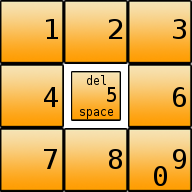
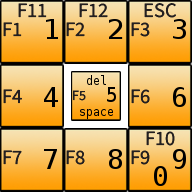
added F1-F12, ESC to osk

diff --git a/src/PSP2/video_psp.cpp b/src/PSP2/video_psp.cpp
@@ -1272,8 +1272,8 @@ void VideoInterrupt(void)
         unsigned int key;
         uint8 xlate_danzeff_us[128] = {
             0, 0, 0, 0, 0, 0, 0, 0,
-            51, 0, 36, 0, 0, 0, 0, 0,
-            0, 0, 0, 0, 0, 0, 0, 0,
+            51, 0, 36, 122, 120, 99, 118, 96, // F1-F12 after 36 (CR)
+            97, 98, 100, 101, 109, 103, 111, 0,
             0, 0, 0, 53, 0, 0, 0, 0,
             49, 128+18, 128+39, 128+20, 128+21, 128+23, 128+26, 39,
             128+25, 128+29, 128+28, 128+24, 43, 27, 47, 44,

diff --git a/src/PSP2/danzeff/danzeff.c b/src/PSP2/danzeff/danzeff.c
@@ -50,10 +50,10 @@ char modeChar[MODE_COUNT*2][3][3][5] =
 		{ "=RST",  ";UVW","/XYZ" }
 	},
 
-	{	//numbers
-		{ "\0\0\0001","\0\0\0002","\0\0\0003" },
-		{ "\0\0\0004",  "\010\0 5","\0\0\0006" },
-		{ "\0\0\0007","\0\0\0008", "\0\00009" }
+	{	//numbers and function keys
+		{ "\025\013\0001","\026\014\0002","\033\015\0003" },
+		{ "\0\016\0004",  "\010\017 5","\0\020\0006" },
+		{ "\0\021\0007","\0\022\0008", "\024\02309" }
 	},
 
 	{	//special characters
